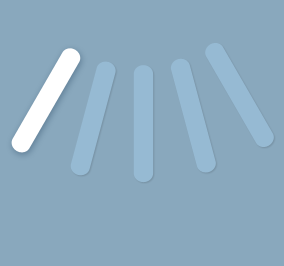
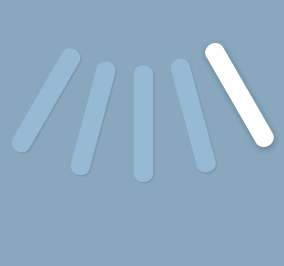
Vertical and Horizontal vane update

Changed region(s): [[0.7042, 0.1504, 0.9859, 0.5714], [0.0282, 0.1805, 0.2817, 0.5714]]

diff --git a/core/template/dashboard/mitsubishimelcloud.html b/core/template/dashboard/mitsubishimelcloud.html
@@ -88,11 +88,11 @@
     <div class="CommandControls">
       <div class="SquareButtonZone VertiSelection#id#">
         <div class="SquareZone VertiSelection#id# ZoneOff" id="ButtonVerti">
-          <label class="ButtonLabel" id="VertiBlock_2"></label>
-          <label class="ButtonLabel" id="VertiBlock_3"></label>
-          <label class="ButtonLabel" id="VertiBlock_4"></label>
           <label class="ButtonLabel" id="VertiBlock_5"></label>
-          <label class="ButtonLabel" id="VertiBlock_6"></label>
+          <label class="ButtonLabel" id="VertiBlock_4"></label>
+          <label class="ButtonLabel" id="VertiBlock_3"></label>
+          <label class="ButtonLabel" id="VertiBlock_2"></label>
+          <label class="ButtonLabel" id="VertiBlock_1"></label>
         </div>
       </div>
       <div class="RectButtonZone VertiSelection#id#">
@@ -141,38 +141,44 @@
     });
 
     /* Horizontal Vane */
+    var CurrentHoriImage = "url('plugins/mitsubishimelcloud/data/img/VaneHorizontal_transitions_off.png')";
     if (#HoriVane_Value# == 0 || #HoriVane_Value# == 12) {
-      $(".VertiSelection#id# #ButtonHori_#HoriVane_Value#").addClass("ZoneOn");
+      $(".HoriSelection#id# #ButtonHori_#HoriVane_Value#").addClass("ZoneOn");
+      $("#ButtonHori").css("background-image", "url('plugins/mitsubishimelcloud/data/img/VaneHorizontal_transitions_off.png')");
     } else {
-      $("#ButtonHori").css("background-image", "url('plugins/mitsubishimelcloud/data/img/VaneHorizontal_transitions_#HoriVane_Value#.png')");
+      CurrentHoriImage = "url('plugins/mitsubishimelcloud/data/img/VaneHorizontal_transitions_#HoriVane_Value#.png')";
+      $("#ButtonHori").css("background-image", CurrentHoriImage);
     }
     $('#HoriBlock_1').mouseover(function(){$("#ButtonHori").css("background-image", "url('plugins/mitsubishimelcloud/data/img/VaneHorizontal_transitions_1.png')");});
-    $('#HoriBlock_1').mouseout(function(){$("#ButtonHori").css("background-image", "url('plugins/mitsubishimelcloud/data/img/VaneHorizontal_transitions_off.png')");});
-    $('#HoriBlock_2').mouseover(function(){$("#ButtonHori").css("background-image", "url('plugins/mitsubishimelcloud/data/img/VaneHorizontal_transitions-2.png')");});
-    $('#HoriBlock_2').mouseout(function(){$("#ButtonHori").css("background-image", "url('plugins/mitsubishimelcloud/data/img/VaneHorizontal_transitions_off.png')");});
+    $('#HoriBlock_1').mouseout(function(){$("#ButtonHori").css("background-image", CurrentHoriImage);});
+    $('#HoriBlock_2').mouseover(function(){$("#ButtonHori").css("background-image", "url('plugins/mitsubishimelcloud/data/img/VaneHorizontal_transitions_2.png')");});
+    $('#HoriBlock_2').mouseout(function(){$("#ButtonHori").css("background-image", CurrentHoriImage);});
     $('#HoriBlock_3').mouseover(function(){$("#ButtonHori").css("background-image", "url('plugins/mitsubishimelcloud/data/img/VaneHorizontal_transitions_3.png')");});
-    $('#HoriBlock_3').mouseout(function(){$("#ButtonHori").css("background-image", "url('plugins/mitsubishimelcloud/data/img/VaneHorizontal_transitions_off.png')");});
+    $('#HoriBlock_3').mouseout(function(){$("#ButtonHori").css("background-image", CurrentHoriImage);});
     $('#HoriBlock_4').mouseover(function(){$("#ButtonHori").css("background-image", "url('plugins/mitsubishimelcloud/data/img/VaneHorizontal_transitions_4.png')");});
-    $('#HoriBlock_4').mouseout(function(){$("#ButtonHori").css("background-image", "url('plugins/mitsubishimelcloud/data/img/VaneHorizontal_transitions_off.png')");});
+    $('#HoriBlock_4').mouseout(function(){$("#ButtonHori").css("background-image", CurrentHoriImage);});
     $('#HoriBlock_5').mouseover(function(){$("#ButtonHori").css("background-image", "url('plugins/mitsubishimelcloud/data/img/VaneHorizontal_transitions_5.png')");});
-    $('#HoriBlock_5').mouseout(function(){$("#ButtonHori").css("background-image", "url('plugins/mitsubishimelcloud/data/img/VaneHorizontal_transitions_off.png')");});
+    $('#HoriBlock_5').mouseout(function(){$("#ButtonHori").css("background-image", CurrentHoriImage);});
 
     /* Vertical Vane */
-    if (#VertiVane_Value# == 0 || #VertiVane_Value# == 12) {
-      $(".HoriSelection#id# #ButtonVerti_#VertiVane_Value#").addClass("ZoneOn");
+    var CurrentVertiImage = "url('plugins/mitsubishimelcloud/data/img/VaneVertical_transitions_off.png')";
+    if (#VertiVane_Value# == 0 || #VertiVane_Value# == 7) {
+      $(".VertiSelection#id# #ButtonVerti_#VertiVane_Value#").addClass("ZoneOn");
+      $("#ButtonVerti").css("background-image", "url('plugins/mitsubishimelcloud/data/img/VaneVertical_transitions_off.png')");
     } else {
-      $("#ButtonVerti").css("background-image", "url('plugins/mitsubishimelcloud/data/img/VaneVertical_transitions_#VertiVane_Value#.png')");
+      CurrentVertiImage = "url('plugins/mitsubishimelcloud/data/img/VaneVertical_transitions_#VertiVane_Value#.png')";
+      $("#ButtonVerti").css("background-image", CurrentVertiImage);
     }
-    $('#VertiBlock_2').mouseover(function(){$("#ButtonVerti").css("background-image", "url('plugins/mitsubishimelcloud/data/img/VaneVertical_transitions_1.png')");});
-    $('#VertiBlock_2').mouseout(function(){$("#ButtonVerti").css("background-image", "url('plugins/mitsubishimelcloud/data/img/VaneVertical_transitions_off.png')");});
-    $('#VertiBlock_3').mouseover(function(){$("#ButtonVerti").css("background-image", "url('plugins/mitsubishimelcloud/data/img/VaneVertical_transitions_2.png')");});
-    $('#VertiBlock_3').mouseout(function(){$("#ButtonVerti").css("background-image", "url('plugins/mitsubishimelcloud/data/img/VaneVertical_transitions_off.png')");});
-    $('#VertiBlock_4').mouseover(function(){$("#ButtonVerti").css("background-image", "url('plugins/mitsubishimelcloud/data/img/VaneVertical_transitions_3.png')");});
-    $('#VertiBlock_4').mouseout(function(){$("#ButtonVerti").css("background-image", "url('plugins/mitsubishimelcloud/data/img/VaneVertical_transitions_off.png')");});
-    $('#VertiBlock_5').mouseover(function(){$("#ButtonVerti").css("background-image", "url('plugins/mitsubishimelcloud/data/img/VaneVertical_transitions_4.png')");});
-    $('#VertiBlock_5').mouseout(function(){$("#ButtonVerti").css("background-image", "url('plugins/mitsubishimelcloud/data/img/VaneVertical_transitions_off.png')");});
-    $('#VertiBlock_6').mouseover(function(){$("#ButtonVerti").css("background-image", "url('plugins/mitsubishimelcloud/data/img/VaneVertical_transitions_5.png')");});
-    $('#VertiBlock_6').mouseout(function(){$("#ButtonVerti").css("background-image", "url('plugins/mitsubishimelcloud/data/img/VaneVertical_transitions_off.png')");});
+    $('#VertiBlock_1').mouseover(function(){$("#ButtonVerti").css("background-image", "url('plugins/mitsubishimelcloud/data/img/VaneVertical_transitions_1.png')");});
+    $('#VertiBlock_1').mouseout(function(){$("#ButtonVerti").css("background-image", CurrentVertiImage);});
+    $('#VertiBlock_2').mouseover(function(){$("#ButtonVerti").css("background-image", "url('plugins/mitsubishimelcloud/data/img/VaneVertical_transitions_2.png')");});
+    $('#VertiBlock_2').mouseout(function(){$("#ButtonVerti").css("background-image", CurrentVertiImage);});
+    $('#VertiBlock_3').mouseover(function(){$("#ButtonVerti").css("background-image", "url('plugins/mitsubishimelcloud/data/img/VaneVertical_transitions_3.png')");});
+    $('#VertiBlock_3').mouseout(function(){$("#ButtonVerti").css("background-image", CurrentVertiImage);});
+    $('#VertiBlock_4').mouseover(function(){$("#ButtonVerti").css("background-image", "url('plugins/mitsubishimelcloud/data/img/VaneVertical_transitions_4.png')");});
+    $('#VertiBlock_4').mouseout(function(){$("#ButtonVerti").css("background-image", CurrentVertiImage);});
+    $('#VertiBlock_5').mouseover(function(){$("#ButtonVerti").css("background-image", "url('plugins/mitsubishimelcloud/data/img/VaneVertical_transitions_5.png')");});
+    $('#VertiBlock_5').mouseout(function(){$("#ButtonVerti").css("background-image", CurrentVertiImage);});
 
     /* Refresh button */
     $('.eqLogic[data-eqLogic_uid=#uid#] .refresh').on('click', function () {

diff --git a/core/template/css/mitsubishimelcloud template.css b/core/template/css/mitsubishimelcloud template.css
@@ -347,7 +347,7 @@
   top: 13px;
   left: 4px;
 }
-#ButtonHori_0:hover::before {
+#ButtonHori_0:hover::before, #ButtonHori_0.ZoneOn::before{
   background-image: url("../../../data/img/Operate_on_Ata_8.png");
   background-size: 35px 35px;
   width: 35px;
@@ -364,7 +364,7 @@
   top: 13px;
   left: 4px;
 }
-#ButtonHori_12:hover::before {
+#ButtonHori_12:hover::before, #ButtonHori_12.ZoneOn::before {
   background-image: url("../../../data/img/VaneHorizontal_animation.gif");
   background-size: 35px 35px;
   width: 35px;
@@ -447,7 +447,7 @@
   top: 13px;
   left: 4px;
 }
-#ButtonVerti_0:hover::before {
+#ButtonVerti_0:hover::before, #ButtonVerti_0.ZoneOn::before {
   background-image: url("../../../data/img/Operate_on_Ata_8.png");
   background-size: 35px 35px;
   width: 35px;
@@ -464,7 +464,7 @@
   top: 13px;
   left: 4px;
 }
-#ButtonVerti_7:hover::before {
+#ButtonVerti_7:hover::before, #ButtonVerti_7.ZoneOn::before {
   background-image: url("../../../data/img/VaneVertical_animation.gif");
   background-size: 35px 35px;
   width: 35px;
@@ -482,7 +482,7 @@
   z-index: 1;
 }
 
-#VertiBlock_2 {
+#VertiBlock_5 {
   position: relative;
   float: left;
   height: 65px;
@@ -493,7 +493,7 @@
   left: 10px;
 }
 
-#VertiBlock_3 {
+#VertiBlock_4 {
   position: relative;
   float: left;
   height: 65px;
@@ -504,7 +504,7 @@
   left: 23px;
 }
 
-#VertiBlock_4 {
+#VertiBlock_3 {
   position: relative;
   float: left;
   height: 65px;
@@ -515,7 +515,7 @@
   left: 30px;
 }
 
-#VertiBlock_5 {
+#VertiBlock_2 {
   position: relative;
   float: left;
   height: 65px;
@@ -526,7 +526,7 @@
   left: 35px;
 }
 
-#VertiBlock_6 {
+#VertiBlock_1 {
   position: relative;
   float: left;
   height: 65px;
